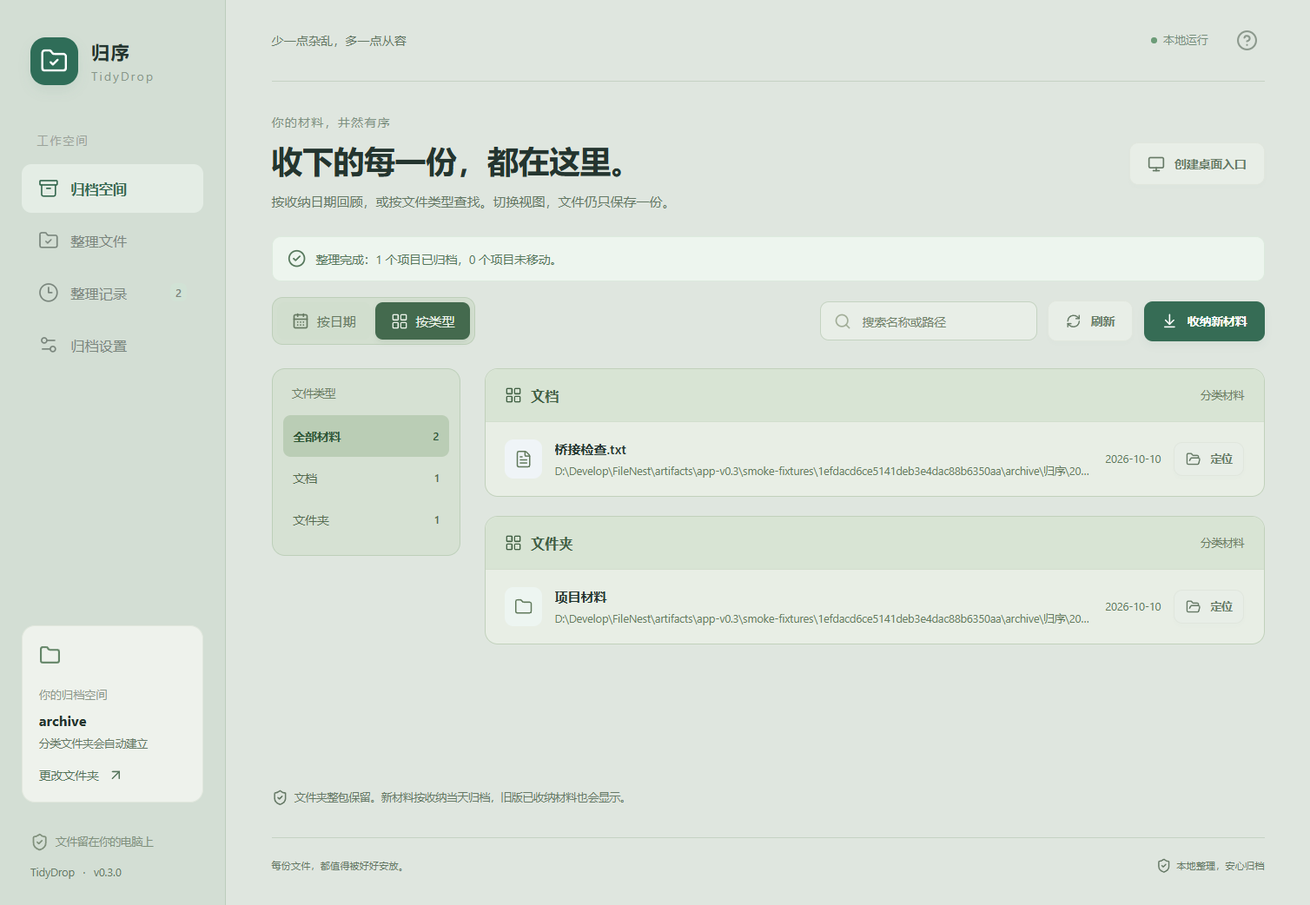
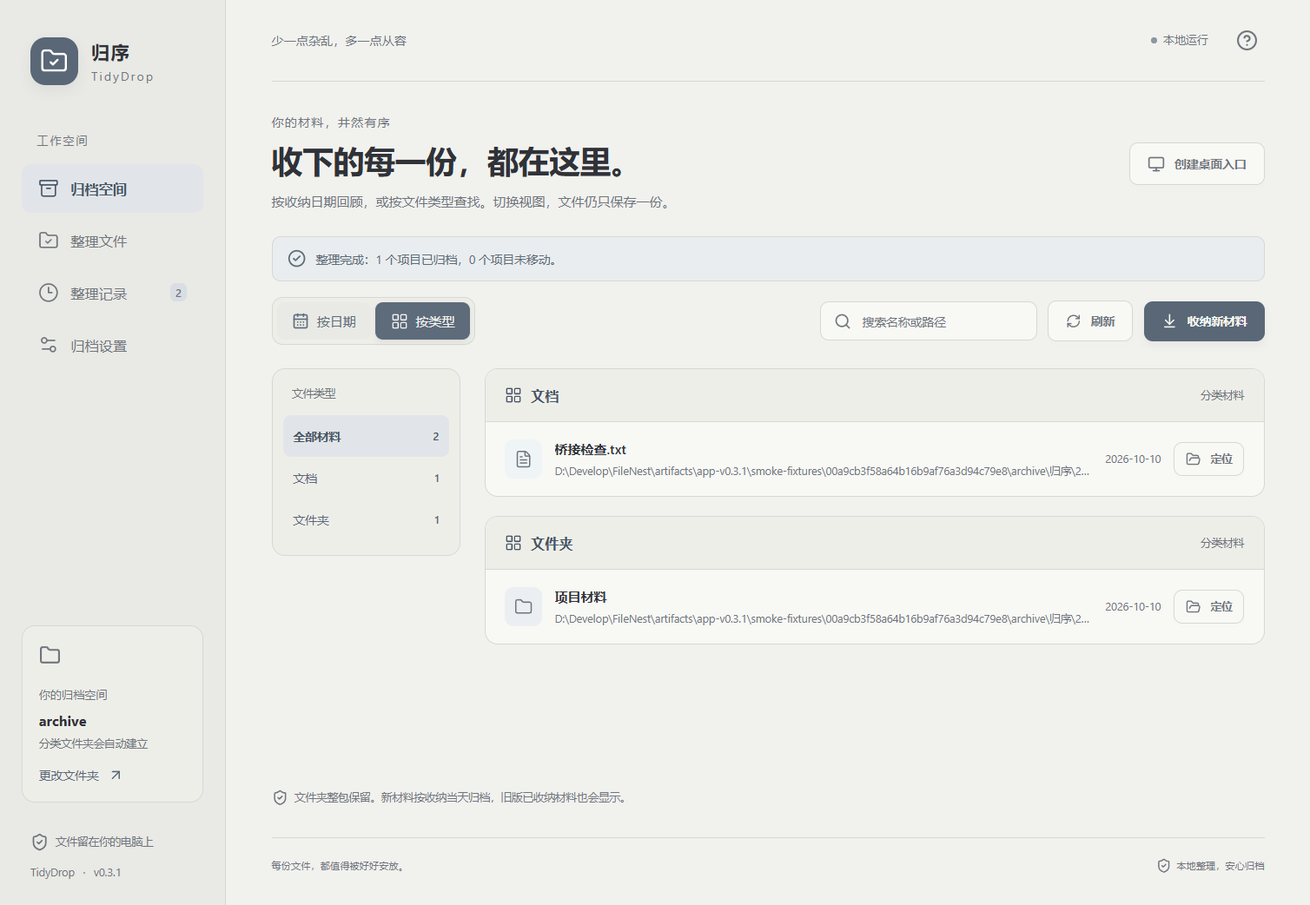
Refresh interface with soft mist-white surfaces

diff --git a/frontend/src/style.css b/frontend/src/style.css
@@ -1,88 +1,88 @@
-:root{font-family:"Segoe UI","Microsoft YaHei UI",sans-serif;color:#24352f;background:#dfe6df;font-synthesis:none;text-rendering:optimizeLegibility;-webkit-font-smoothing:antialiased;font-size:13px}
+:root{--canvas:#f1f1ee;--sidebar:#e9e9e5;--surface:#f8f8f5;--surface-muted:#eeeee9;--selection:#e1e5e9;--line:#d7d8d5;--ink:#303238;--muted:#70757c;--accent:#596777;--accent-hover:#465465;--on-accent:#f8f8f5;font-family:"Segoe UI","Microsoft YaHei UI",sans-serif;color:var(--ink);background:var(--canvas);font-synthesis:none;text-rendering:optimizeLegibility;-webkit-font-smoothing:antialiased;font-size:13px}
 *{box-sizing:border-box}
 body{margin:0}
 button,input{font:inherit}
 button{cursor:pointer;border:0;background:transparent;color:inherit}
 button:disabled{opacity:.45;cursor:default}
-button:focus-visible,input:focus-visible{outline:3px solid #a9d5c5;outline-offset:3px}
+button:focus-visible,input:focus-visible{outline:3px solid #a9b9cb;outline-offset:3px}
 button{transition:background .16s,transform .16s,color .16s}
 button:not(:disabled):active{transform:translateY(1px)}
 .app-shell{display:flex;min-height:100vh}
-.sidebar{width:208px;flex-shrink:0;background:#d3ded4;border-right:1px solid #e6ebe4;padding:34px 20px 24px;display:flex;flex-direction:column;position:fixed;inset:0 auto 0 0}
+.sidebar{width:208px;flex-shrink:0;background:var(--sidebar);border-right:1px solid var(--line);padding:34px 20px 24px;display:flex;flex-direction:column;position:fixed;inset:0 auto 0 0}
 .brand{display:flex;align-items:center;gap:12px;margin:0 8px 45px}
-.brand-mark{display:flex;align-items:center;justify-content:center;width:44px;height:44px;background:#2f6d58;color:white;border-radius:14px;box-shadow:0 5px 12px #2f6d5815;flex-shrink:0}
+.brand-mark{display:flex;align-items:center;justify-content:center;width:44px;height:44px;background:var(--accent);color:white;border-radius:14px;box-shadow:0 5px 12px #30323812;flex-shrink:0}
 .brand strong{font-size:17px;letter-spacing:1px;font-weight:650}
-.brand div>span{display:block;font-size:11px;letter-spacing:1.7px;color:#88978a;margin-top:4px}
-.nav-caption{font-size:10px;letter-spacing:2px;color:#9aa399;margin:0 14px 12px}
-.nav-item{display:flex;align-items:center;width:100%;gap:11px;text-align:left;padding:13px 15px;border-radius:9px;color:#7a867d;margin:3px 0}
-.nav-item:hover{background:#edf1eb}
-.nav-item.active{background:#e4ede5;color:#35684f;font-weight:600}
-.nav-item b{margin-left:auto;font-size:10px;background:#d1e2d5;border-radius:5px;padding:2px 5px;font-weight:600}
-.sidebar-destination{margin-top:auto;margin-bottom:28px;background:#eef2ec;padding:17px 15px;border:1px solid #e1e7dd;border-radius:12px;position:relative}
-.destination-symbol{display:block;color:#638567;margin-bottom:17px}
-.eyebrow{font-size:11px;letter-spacing:1.2px;color:#7d9182}
-.sidebar-destination .eyebrow{font-size:10px;display:block;letter-spacing:.5px;color:#8d988b}
+.brand div>span{display:block;font-size:11px;letter-spacing:1.7px;color:var(--muted);margin-top:4px}
+.nav-caption{font-size:10px;letter-spacing:2px;color:var(--muted);margin:0 14px 12px}
+.nav-item{display:flex;align-items:center;width:100%;gap:11px;text-align:left;padding:13px 15px;border-radius:9px;color:var(--muted);margin:3px 0}
+.nav-item:hover{background:var(--surface-muted)}
+.nav-item.active{background:var(--selection);color:#465465;font-weight:600}
+.nav-item b{margin-left:auto;font-size:10px;background:#d9dee4;border-radius:5px;padding:2px 5px;font-weight:600}
+.sidebar-destination{margin-top:auto;margin-bottom:28px;background:var(--surface-muted);padding:17px 15px;border:1px solid var(--line);border-radius:12px;position:relative}
+.destination-symbol{display:block;color:var(--muted);margin-bottom:17px}
+.eyebrow{font-size:11px;letter-spacing:1.2px;color:var(--muted)}
+.sidebar-destination .eyebrow{font-size:10px;display:block;letter-spacing:.5px;color:var(--muted)}
 .sidebar-destination strong{display:block;margin-top:8px;font-size:13px;overflow:hidden;text-overflow:ellipsis;white-space:nowrap}
-.sidebar-destination p{font-size:10px;color:#909c90;margin:6px 0 15px}
-.sidebar-destination button{display:flex;gap:8px;align-items:center;font-size:11px;color:#54745b;padding:0}
-.sidebar-bottom{padding:0 8px;color:#a0aa9f;font-size:10px}
-.sidebar-bottom div{display:flex;align-items:center;gap:6px;color:#81917d;margin-bottom:13px}
+.sidebar-destination p{font-size:10px;color:var(--muted);margin:6px 0 15px}
+.sidebar-destination button{display:flex;gap:8px;align-items:center;font-size:11px;color:var(--accent);padding:0}
+.sidebar-bottom{padding:0 8px;color:var(--muted);font-size:10px}
+.sidebar-bottom div{display:flex;align-items:center;gap:6px;color:var(--muted);margin-bottom:13px}
 .sidebar-bottom i{font-style:normal;margin:0 5px}
 main{margin-left:208px;flex:1;min-width:0;max-width:1660px;padding:0 42px 22px}
-.topbar{display:flex;align-items:center;justify-content:space-between;height:75px;border-bottom:1px solid #eff1ed;color:#96a094;font-size:11px;letter-spacing:.3px}
+.topbar{display:flex;align-items:center;justify-content:space-between;height:75px;border-bottom:1px solid var(--surface-muted);color:var(--muted);font-size:11px;letter-spacing:.3px}
 .topbar>div{display:flex;align-items:center;gap:20px}
-.local-pill{display:flex;align-items:center;gap:6px;font-size:10px;color:#758e7b}
-.local-pill i,.mode-chip i{width:5px;height:5px;background:#6c9c78;border-radius:50%}
-.icon-button{display:flex;align-items:center;justify-content:center;color:#8c998d;border-radius:7px;padding:6px}
-.icon-button:hover{background:#edf2ed}
+.local-pill{display:flex;align-items:center;gap:6px;font-size:10px;color:var(--muted)}
+.local-pill i,.mode-chip i{width:5px;height:5px;background:#8b97a2;border-radius:50%}
+.icon-button{display:flex;align-items:center;justify-content:center;color:var(--muted);border-radius:7px;padding:6px}
+.icon-button:hover{background:var(--surface-muted)}
 .page-header{display:flex;align-items:center;justify-content:space-between;gap:16px;padding:30px 0 25px}
 .page-header h1{font-size:29px;font-weight:620;letter-spacing:-.6px;margin:9px 0 9px;line-height:1.3}
-.page-header p{font-size:12px;color:#627466;margin:0;line-height:1.8}
+.page-header p{font-size:12px;color:var(--accent);margin:0;line-height:1.8}
 .button{display:inline-flex;align-items:center;justify-content:center;gap:9px;padding:11px 16px;border-radius:8px;white-space:nowrap;font-size:11px;font-weight:550;line-height:1.2}
-.button.subtle{border:1px solid #e0e6dd;background:#e8eee7;color:#667a66;box-shadow:0 2px 3px #23362c03}
-.button.subtle:hover{background:#f5f8f3}
-.button.primary{background:#366c55;color:#fff;box-shadow:0 4px 7px #2a644d0e}
-.button.primary:hover{background:#295a44}
-.drop-zone{min-height:255px;background:linear-gradient(115deg,#d3e0d2 0%,#e0e8dc 70%);border:1px dashed #bccfba;border-radius:15px;position:relative;display:flex;justify-content:space-between;align-items:center;padding:29px 38px;overflow:hidden;transition:background .2s,border-color .2s}
-.drop-zone.dragging{border:2px dashed #48795e;background:#e5f1e2}
+.button.subtle{border:1px solid var(--line);background:var(--surface);color:var(--muted);box-shadow:0 2px 3px #30323803}
+.button.subtle:hover{background:var(--surface-muted)}
+.button.primary{background:var(--accent);color:var(--on-accent);box-shadow:0 4px 7px #3032380e}
+.button.primary:hover{background:var(--accent-hover)}
+.drop-zone{min-height:255px;background:linear-gradient(115deg,#eaeae6 0%,#f4f4f0 70%);border:1px dashed #b6bcc2;border-radius:15px;position:relative;display:flex;justify-content:space-between;align-items:center;padding:29px 38px;overflow:hidden;transition:background .2s,border-color .2s}
+.drop-zone.dragging{border:2px dashed var(--accent);background:#e5e9ed}
 .drop-copy{position:relative;z-index:2}
-.drop-tag{display:inline-flex;align-items:center;gap:6px;border:1px solid #dce7d8;background:#ffffff6b;color:#6d8b6d;font-size:10px;letter-spacing:1px;padding:5px 8px;border-radius:5px}
+.drop-tag{display:inline-flex;align-items:center;gap:6px;border:1px solid var(--line);background:#ffffff6b;color:var(--muted);font-size:10px;letter-spacing:1px;padding:5px 8px;border-radius:5px}
 .drop-zone h2{font-size:25px;font-weight:610;margin:16px 0 10px;letter-spacing:-.3px}
-.drop-zone p{color:#61765b;font-size:11px;line-height:1.95;margin:0 0 20px}
+.drop-zone p{color:var(--accent);font-size:11px;line-height:1.95;margin:0 0 20px}
 .drop-zone .button{padding:11px 16px}
 .plus{font-size:18px;font-weight:400;line-height:12px}
 .folder-illustration{width:245px;height:195px;position:relative;flex-shrink:0;margin-right:10px}
-.orbit{position:absolute;border:1px solid #dce7d6;border-radius:50%;transform:rotate(-25deg);left:3px;top:6px;width:229px;height:179px}
-.orbit-two{width:183px;height:183px;left:31px;top:3px;border-color:#e4ecdf;transform:none}
-.paper{position:absolute;width:72px;height:99px;background:#e8eee7;border-radius:8px;box-shadow:0 4px 10px #475e3810;padding:14px 13px}
+.orbit{position:absolute;border:1px solid var(--line);border-radius:50%;transform:rotate(-25deg);left:3px;top:6px;width:229px;height:179px}
+.orbit-two{width:183px;height:183px;left:31px;top:3px;border-color:var(--surface-muted);transform:none}
+.paper{position:absolute;width:72px;height:99px;background:var(--surface);border-radius:8px;box-shadow:0 4px 10px #3032380b;padding:14px 13px}
 .paper-back{transform:rotate(13deg);top:28px;left:132px;color:#c9ad65;border:1px solid #eee8d6}
-.paper-front{transform:rotate(-10deg);top:13px;left:67px;color:#91a89e;border:1px solid #d9e4d9}
-.paper-front i{display:block;height:3px;background:#e8ece6;width:36px;border-radius:2px;margin-top:9px}
+.paper-front{transform:rotate(-10deg);top:13px;left:67px;color:#8895a3;border:1px solid var(--line)}
+.paper-front i{display:block;height:3px;background:var(--surface-muted);width:36px;border-radius:2px;margin-top:9px}
 .paper-front i:last-child{width:25px;margin-top:6px}
-.illustration-folder{position:absolute;width:141px;height:88px;left:52px;top:93px;border-radius:8px 12px 13px 13px;background:linear-gradient(145deg,#669074,#49795f);box-shadow:0 13px 20px #405e421c;transform:rotate(-5deg);z-index:2}
-.illustration-folder:before{content:"";position:absolute;top:-12px;left:0;width:63px;height:21px;background:#729980;border-radius:8px 9px 0 0}
+.illustration-folder{position:absolute;width:141px;height:88px;left:52px;top:93px;border-radius:8px 12px 13px 13px;background:linear-gradient(145deg,#8996a5,#67778a);box-shadow:0 13px 20px #3032381a;transform:rotate(-5deg);z-index:2}
+.illustration-folder:before{content:"";position:absolute;top:-12px;left:0;width:63px;height:21px;background:#9aa6b3;border-radius:8px 9px 0 0}
 .illustration-folder:after{content:"";position:absolute;top:5px;left:0;right:0;height:2px;background:#ffffff0a}
-.illustration-folder span{display:flex;align-items:center;justify-content:center;width:42px;height:42px;background:#ffffff12;color:#e4f0e5;border:1px solid #ffffff15;border-radius:50%;position:absolute;left:49px;top:23px}
-.floating-arrow{width:35px;height:35px;display:flex;align-items:center;justify-content:center;position:absolute;right:24px;top:53px;background:#e8eee7;border:1px solid #e3eadd;border-radius:11px;color:#78977b;z-index:3;box-shadow:0 3px 8px #1e463708;transform:rotate(8deg)}
-.tiny-spark{position:absolute;color:#c4d3b9;font-size:15px}
+.illustration-folder span{display:flex;align-items:center;justify-content:center;width:42px;height:42px;background:#ffffff12;color:var(--on-accent);border:1px solid #ffffff15;border-radius:50%;position:absolute;left:49px;top:23px}
+.floating-arrow{width:35px;height:35px;display:flex;align-items:center;justify-content:center;position:absolute;right:24px;top:53px;background:var(--surface);border:1px solid var(--line);border-radius:11px;color:var(--muted);z-index:3;box-shadow:0 3px 8px #30323808;transform:rotate(8deg)}
+.tiny-spark{position:absolute;color:#858a91;font-size:15px}
 .spark-one{top:34px;left:22px}
 .spark-two{right:4px;bottom:29px;font-size:12px}
-.destination-bar{display:flex;align-items:center;gap:13px;border:1px solid #e8ece5;border-radius:11px;background:#e8eee7;padding:15px 18px;margin-top:14px}
-.destination-icon{display:flex;align-items:center;justify-content:center;width:35px;height:35px;background:#f0f4ec;border-radius:9px;color:#86a079;flex-shrink:0}
+.destination-bar{display:flex;align-items:center;gap:13px;border:1px solid var(--surface-muted);border-radius:11px;background:var(--surface);padding:15px 18px;margin-top:14px}
+.destination-icon{display:flex;align-items:center;justify-content:center;width:35px;height:35px;background:var(--surface-muted);border-radius:9px;color:var(--muted);flex-shrink:0}
 .destination-bar>div{flex:1;min-width:0}
-.destination-bar>div>span{display:block;font-size:9px;color:#6b7e64;letter-spacing:.5px;margin-bottom:4px}
+.destination-bar>div>span{display:block;font-size:9px;color:var(--muted);letter-spacing:.5px;margin-bottom:4px}
 .destination-bar strong{display:block;font-size:11px;font-weight:500;white-space:nowrap;overflow:hidden;text-overflow:ellipsis}
-.destination-bar>button{display:flex;align-items:center;gap:6px;font-size:10px;color:#7f917b;flex-shrink:0}
-.bar-divider{height:24px;border-left:1px solid #e9ede5;margin:0 2px 0 8px}
-.mode-chip{font-size:10px!important;color:#72876e!important}
+.destination-bar>button{display:flex;align-items:center;gap:6px;font-size:10px;color:var(--muted);flex-shrink:0}
+.bar-divider{height:24px;border-left:1px solid var(--surface-muted);margin:0 2px 0 8px}
+.mode-chip{font-size:10px!important;color:var(--muted)!important}
 .section-heading{display:flex;align-items:center;justify-content:space-between;gap:16px;margin-bottom:16px}
 .section-heading h3{font-size:13px;font-weight:600;margin:0;letter-spacing:.3px}
 .section-heading>div:first-child{display:flex;align-items:center;gap:13px}
-.section-heading span{font-size:10px;color:#718172}
-.section-heading>button:not(.button){display:flex;align-items:center;gap:6px;font-size:10px;color:#8d9a87}
+.section-heading span{font-size:10px;color:var(--muted)}
+.section-heading>button:not(.button){display:flex;align-items:center;gap:6px;font-size:10px;color:var(--muted)}
 .categories-section,.results-section{margin-top:28px}
 .category-grid{display:grid;grid-template-columns:repeat(6,minmax(0,1fr));gap:10px}
-.category-card{border:1px solid #e9ece6;border-radius:11px;background:#e8eee7;padding:16px 12px}
+.category-card{border:1px solid var(--surface-muted);border-radius:11px;background:var(--surface);padding:16px 12px}
 .file-glyph{height:39px;width:39px;display:flex;align-items:center;justify-content:center;border-radius:10px}
 .file-glyph.small{width:34px;height:36px;border-radius:8px;flex-shrink:0}
 .blue{color:#829cae;background:#eff4f7}
@@ -90,77 +90,77 @@ main{margin-left:208px;flex:1;min-width:0;max-width:1660px;padding:0 42px 22px}
 .purple{color:#a191b3;background:#f3f0f7}
 .pink{color:#b28a9c;background:#f8f0f3}
 .orange{color:#b7a089;background:#f8f3ec}
-.teal{color:#80a596;background:#edf5f1}
-.gray{color:#9ba393;background:#f2f4ef}
+.teal{color:#8393a2;background:#eceff2}
+.gray{color:var(--muted);background:var(--surface-muted)}
 .category-card strong{font-size:11px;display:block;margin-top:13px;font-weight:550}
-.category-card>span:last-child{display:block;font-size:8px;color:#758773;margin-top:7px;white-space:nowrap}
-.gentle-tip{display:flex;align-items:center;gap:6px;color:#718471;font-size:10px;margin-top:17px;line-height:1.7}
-.main-footer{display:flex;align-items:center;justify-content:space-between;font-size:9px;color:#b0b8ab;border-top:1px solid #edf0e9;margin-top:28px;padding-top:18px}
+.category-card>span:last-child{display:block;font-size:8px;color:var(--muted);margin-top:7px;white-space:nowrap}
+.gentle-tip{display:flex;align-items:center;gap:6px;color:var(--muted);font-size:10px;margin-top:17px;line-height:1.7}
+.main-footer{display:flex;align-items:center;justify-content:space-between;font-size:9px;color:#858a91;border-top:1px solid var(--surface-muted);margin-top:28px;padding-top:18px}
 .main-footer>span:last-child{display:flex;align-items:center;gap:5px}
-.notice{display:flex;align-items:center;gap:9px;padding:11px 14px;background:#edf5ee;border:1px solid #dceadd;border-radius:8px;margin:-4px 0 15px;font-size:11px;color:#56785c;line-height:1.6}
+.notice{display:flex;align-items:center;gap:9px;padding:11px 14px;background:#e9edef;border:1px solid var(--line);border-radius:8px;margin:-4px 0 15px;font-size:11px;color:#5c6c78;line-height:1.6}
 .notice.error{color:#a27157;background:#faf2e9;border-color:#eeddcc}
 .notice span{min-width:0;overflow-wrap:anywhere}
-.preview-note{font-size:10px;color:#91a18c;padding-bottom:12px}
-.table-wrap{background:#e8eee7;border:1px solid #e6ebe3;border-radius:11px;overflow:auto}
+.preview-note{font-size:10px;color:var(--muted);padding-bottom:12px}
+.table-wrap{background:var(--surface);border:1px solid var(--line);border-radius:11px;overflow:auto}
 table{width:100%;border-collapse:collapse;table-layout:fixed}
-th{text-align:left;background:#dbe5da;padding:12px 17px;color:#637b62;font-size:10px;font-weight:500}
-td{padding:13px 17px;border-top:1px solid #eef1ea;font-size:11px}
+th{text-align:left;background:var(--surface-muted);padding:12px 17px;color:var(--muted);font-size:10px;font-weight:500}
+td{padding:13px 17px;border-top:1px solid var(--surface-muted);font-size:11px}
 th:first-child{width:30%}
 th:nth-child(2){width:43%}
 th:last-child{width:27%}
 .file-name{display:flex;align-items:center;gap:11px}
 .file-name>span{overflow:hidden;text-overflow:ellipsis;white-space:nowrap;font-weight:500}
-.file-name small{display:block;font-size:9px;color:#718471;margin-top:5px;font-weight:400}
-.path-cell{color:#6a7f67;font-size:10px;overflow:hidden;text-overflow:ellipsis;white-space:nowrap}
+.file-name small{display:block;font-size:9px;color:var(--muted);margin-top:5px;font-weight:400}
+.path-cell{color:var(--muted);font-size:10px;overflow:hidden;text-overflow:ellipsis;white-space:nowrap}
 .status-badge{display:inline-flex;align-items:center;gap:4px;font-size:9px;border-radius:5px;padding:4px 7px;max-width:100%;overflow:hidden;text-overflow:ellipsis;white-space:nowrap}
-.status-badge.success{background:#eaf4eb;color:#6d9b75}
+.status-badge.success{background:#e8edf0;color:#5e7483}
 .status-badge.waiting{background:#faf3e5;color:#ad9567}
-.status-badge.neutral{background:#f3f4f0;color:#929e87}
+.status-badge.neutral{background:var(--surface-muted);color:var(--muted)}
 .history-table th:first-child{width:29%}
 .history-table th:nth-child(2){width:40%}
 .history-table th:nth-child(3){width:15%}
 .history-table th:last-child{width:16%}
-.search-box{display:flex;align-items:center;gap:8px;background:#e8eee7;border:1px solid #e5eae1;padding:9px 12px;border-radius:8px;color:#a1ad97}
-.search-box input{border:0;outline:0;background:transparent;width:150px;font-size:11px;color:#70816b}
-.search-box input::placeholder{color:#b0baaa}
-.undo-button{display:flex;align-items:center;gap:5px;color:#7d9975;font-size:10px}
-.undo-button:hover{color:#3c714c}
-.empty-state{text-align:center;padding:74px 20px;background:#e8eee7;border:1px dashed #dde7d8;border-radius:12px;color:#a8b99e}
-.empty-state h3{font-size:15px;color:#778e6e;font-weight:500;margin:20px 0 10px}
-.empty-state p{font-size:11px;color:#a1ad97}
-.settings-card{background:#e8eee7;border:1px solid #e7ece2;border-radius:12px;margin-bottom:17px;padding:23px}
+.search-box{display:flex;align-items:center;gap:8px;background:var(--surface);border:1px solid var(--line);padding:9px 12px;border-radius:8px;color:var(--muted)}
+.search-box input{border:0;outline:0;background:transparent;width:150px;font-size:11px;color:var(--muted)}
+.search-box input::placeholder{color:#858a91}
+.undo-button{display:flex;align-items:center;gap:5px;color:var(--muted);font-size:10px}
+.undo-button:hover{color:var(--accent)}
+.empty-state{text-align:center;padding:74px 20px;background:var(--surface);border:1px dashed var(--line);border-radius:12px;color:#858a91}
+.empty-state h3{font-size:15px;color:var(--muted);font-weight:500;margin:20px 0 10px}
+.empty-state p{font-size:11px;color:var(--muted)}
+.settings-card{background:var(--surface);border:1px solid var(--line);border-radius:12px;margin-bottom:17px;padding:23px}
 .settings-card>.section-heading{margin-bottom:8px}
-.setting-row{display:flex;align-items:center;gap:15px;padding:22px 0;border-top:1px solid #edf0e8}
+.setting-row{display:flex;align-items:center;gap:15px;padding:22px 0;border-top:1px solid var(--surface-muted)}
 .setting-row:nth-child(2){border-top:0}
 .setting-row:last-child{padding-bottom:3px}
-.setting-icon{display:flex;align-items:center;justify-content:center;width:38px;height:38px;background:#f4f7ef;border-radius:9px;color:#8b9f80;flex-shrink:0}
+.setting-icon{display:flex;align-items:center;justify-content:center;width:38px;height:38px;background:var(--surface-muted);border-radius:9px;color:var(--muted);flex-shrink:0}
 .setting-row>div{flex:1;min-width:0}
 .setting-row strong{font-size:12px;font-weight:550}
-.setting-row p{font-size:10px;color:#6c7e64;margin:7px 0 0;line-height:1.6;overflow:hidden;white-space:nowrap;text-overflow:ellipsis}
-.toggle{width:35px;height:20px;flex-shrink:0;padding:3px;border-radius:12px;background:#e0e7dc;transition:background .18s}
-.toggle span{display:block;height:14px;width:14px;background:#e8eee7;border-radius:50%;box-shadow:0 1px 4px #0001;transition:transform .18s}
-.toggle.on{background:#68957a}
+.setting-row p{font-size:10px;color:var(--muted);margin:7px 0 0;line-height:1.6;overflow:hidden;white-space:nowrap;text-overflow:ellipsis}
+.toggle{width:35px;height:20px;flex-shrink:0;padding:3px;border-radius:12px;background:#d7d9d9;transition:background .18s}
+.toggle span{display:block;height:14px;width:14px;background:var(--surface);border-radius:50%;box-shadow:0 1px 4px #0001;transition:transform .18s}
+.toggle.on{background:var(--accent)}
 .toggle.on span{transform:translateX(15px)}
 .all-categories{display:grid;grid-template-columns:repeat(5,minmax(0,1fr));row-gap:22px;column-gap:15px;margin:25px 0}
 .all-categories>div{display:flex;align-items:center;gap:9px}
 .all-categories strong{display:block;font-size:10px;font-weight:500}
-.all-categories small{display:block;color:#74856c;font-size:8px;margin-top:5px}
-.folder-example{display:flex;align-items:center;flex-wrap:wrap;gap:8px;padding:13px 15px;background:#f5f8f1;border-radius:7px;color:#8b9d7e;font-size:10px}
+.all-categories small{display:block;color:var(--muted);font-size:8px;margin-top:5px}
+.folder-example{display:flex;align-items:center;flex-wrap:wrap;gap:8px;padding:13px 15px;background:var(--surface-muted);border-radius:7px;color:var(--muted);font-size:10px}
 .folder-example span{overflow-wrap:anywhere}
 .spin{animation:spin 1s linear infinite}
 @keyframes spin{to{transform:rotate(360deg)}
 }
-.modal-backdrop{position:fixed;inset:0;background:#1e362744;backdrop-filter:blur(4px);z-index:100;display:flex;align-items:center;justify-content:center;padding:20px}
-.help-modal{width:420px;max-width:100%;padding:32px;background:#e3ebe0;border:1px solid #e3eadd;border-radius:18px;box-shadow:0 20px 80px #193a3520;position:relative}
+.modal-backdrop{position:fixed;inset:0;background:#30323844;backdrop-filter:blur(4px);z-index:100;display:flex;align-items:center;justify-content:center;padding:20px}
+.help-modal{width:420px;max-width:100%;padding:32px;background:var(--surface);border:1px solid var(--line);border-radius:18px;box-shadow:0 20px 80px #30323820;position:relative}
 .modal-close{position:absolute;top:15px;right:15px}
 .help-modal h2{font-size:23px;margin:22px 0 8px}
-.help-modal>p{font-size:12px;color:#8d9d81}
+.help-modal>p{font-size:12px;color:var(--muted)}
 .help-modal ol{list-style:none;padding:0;margin:26px 0}
 .help-modal li{display:flex;gap:13px;margin:21px 0}
-.help-modal li b{width:24px;height:24px;border-radius:8px;background:#edf2e7;color:#87a076;font-size:10px;display:flex;align-items:center;justify-content:center;flex-shrink:0}
+.help-modal li b{width:24px;height:24px;border-radius:8px;background:var(--surface-muted);color:var(--muted);font-size:10px;display:flex;align-items:center;justify-content:center;flex-shrink:0}
 .help-modal li strong{font-size:12px;font-weight:550}
-.help-modal li p{font-size:10px;color:#99a68e;margin:6px 0 0;line-height:1.7}
-.help-note{font-size:10px;color:#9aa98d;line-height:1.8;padding:13px 14px;background:#f0f5e9;border-radius:8px;margin-bottom:20px}
+.help-modal li p{font-size:10px;color:var(--muted);margin:6px 0 0;line-height:1.7}
+.help-note{font-size:10px;color:var(--muted);line-height:1.8;padding:13px 14px;background:var(--surface-muted);border-radius:8px;margin-bottom:20px}
 .help-modal>.button{width:100%}
 @media(min-width:1400px){main{padding-left:64px;padding-right:64px}
 .drop-zone{min-height:280px}
@@ -214,41 +214,41 @@ th,td{padding-left:10px;padding-right:10px}
 }
 
 
-/* Soft sage surfaces with readable secondary text. */
-.page-header p,.sidebar-destination p,.gentle-tip,.main-footer,.sidebar-bottom,.topbar,.setting-row p,.all-categories small{color:#657865}
+/* Mist-white surfaces; dark text and muted slate accents. */
+.page-header p,.sidebar-destination p,.gentle-tip,.main-footer,.sidebar-bottom,.topbar,.setting-row p,.all-categories small{color:var(--muted)}
 
-.sidebar{border-color:#bccdbc}
-.topbar,.main-footer{border-color:#c5d2c4}
-.drop-zone{border-color:#a5bca1}
-.destination-bar,.settings-card,.category-card,.table-wrap,.search-box{border-color:#c4d3c1}
+.sidebar{border-color:var(--line)}
+.topbar,.main-footer{border-color:var(--line)}
+.drop-zone{border-color:#b6bcc2}
+.destination-bar,.settings-card,.category-card,.table-wrap,.search-box{border-color:var(--line)}
 
-.folder-pick{margin-left:8px;color:#496848;border:1px solid #b0c3a8;background:#e3ebde}
+.folder-pick{margin-left:8px;color:var(--accent);border:1px solid var(--line);background:var(--line)}
 .library-toolbar{display:flex;align-items:center;gap:10px;margin-bottom:22px;flex-wrap:wrap}
 .library-toolbar .search-box{margin-left:auto}
-.view-switch{display:flex;gap:4px;padding:4px;border:1px solid #becfba;border-radius:10px;background:#d3dfd0}
-.view-switch button{display:flex;align-items:center;gap:7px;padding:9px 14px;font-size:12px;border-radius:7px;color:#63765f}
-.view-switch button.selected{background:#42694c;color:#eef5ec;box-shadow:0 2px 5px #23452a17}
+.view-switch{display:flex;gap:4px;padding:4px;border:1px solid var(--line);border-radius:10px;background:var(--surface-muted)}
+.view-switch button{display:flex;align-items:center;gap:7px;padding:9px 14px;font-size:12px;border-radius:7px;color:var(--accent)}
+.view-switch button.selected{background:var(--accent);color:var(--on-accent);box-shadow:0 2px 5px #30323817}
 .library-layout{display:grid;grid-template-columns:174px minmax(0,1fr);gap:22px;min-height:370px}
-.library-groups{background:#d6e1d3;border:1px solid #bdcfb9;border-radius:12px;padding:14px 10px;align-self:start;max-height:520px;overflow:auto}
-.group-caption{font-size:10px;color:#6c8065;margin:2px 8px 13px}
-.library-groups button{display:flex;align-items:center;justify-content:space-between;width:100%;gap:5px;padding:12px 9px;border-radius:7px;font-size:11px;color:#536b4f;text-align:left}
-.library-groups button.selected{background:#bacdb5;color:#2d5636;font-weight:600}
-.library-groups button:hover{background:#c7d6c2}
+.library-groups{background:var(--surface-muted);border:1px solid var(--line);border-radius:12px;padding:14px 10px;align-self:start;max-height:520px;overflow:auto}
+.group-caption{font-size:10px;color:var(--muted);margin:2px 8px 13px}
+.library-groups button{display:flex;align-items:center;justify-content:space-between;width:100%;gap:5px;padding:12px 9px;border-radius:7px;font-size:11px;color:var(--accent);text-align:left}
+.library-groups button.selected{background:var(--selection);color:#465465;font-weight:600}
+.library-groups button:hover{background:#e5e7e8}
 .library-groups b{font-size:10px;font-weight:500}
-.library-group{background:#e8eee5;border:1px solid #c1d1bb;border-radius:12px;margin-bottom:18px;overflow:hidden}
-.library-group h3{display:flex;align-items:center;gap:8px;background:#d8e4d4;font-size:13px;color:#416044;padding:15px 18px;margin:0}
-.library-group h3 span{margin-left:auto;font-size:10px;font-weight:400;color:#6c8064}
-.archive-row{display:flex;align-items:center;gap:12px;padding:16px 18px;border-top:1px solid #d2decd}
+.library-group{background:var(--surface);border:1px solid var(--line);border-radius:12px;margin-bottom:18px;overflow:hidden}
+.library-group h3{display:flex;align-items:center;gap:8px;background:var(--surface-muted);font-size:13px;color:#465465;padding:15px 18px;margin:0}
+.library-group h3 span{margin-left:auto;font-size:10px;font-weight:400;color:var(--muted)}
+.archive-row{display:flex;align-items:center;gap:12px;padding:16px 18px;border-top:1px solid var(--line)}
 .archive-row>div{flex:1;min-width:0}
 .archive-row strong{font-size:12px;font-weight:550;display:block;overflow:hidden;text-overflow:ellipsis;white-space:nowrap}
-.archive-row small{display:block;margin-top:6px;font-size:10px;color:#657b60;overflow:hidden;text-overflow:ellipsis;white-space:nowrap}
-.archive-row>span{font-size:10px;color:#60795b}
+.archive-row small{display:block;margin-top:6px;font-size:10px;color:var(--muted);overflow:hidden;text-overflow:ellipsis;white-space:nowrap}
+.archive-row>span{font-size:10px;color:var(--muted)}
 .archive-row .button{padding:8px 10px;font-size:10px}
-.library-files .empty-state{background:#e4ecdf;border-color:#bccfb5;min-height:370px}
+.library-files .empty-state{background:var(--surface-muted);border-color:var(--line);min-height:370px}
 .empty-state .button{margin-top:15px}
-.empty-state p{line-height:1.8;color:#63765c}
-.search-box input{color:#4b6549}
-.search-box input::placeholder{color:#72846b}
+.empty-state p{line-height:1.8;color:var(--accent)}
+.search-box input{color:var(--accent)}
+.search-box input::placeholder{color:var(--muted)}
 
 @media(max-width:1050px){.library-layout{grid-template-columns:155px minmax(0,1fr);gap:14px}
 .library-toolbar .search-box{margin-left:0}

diff --git a/frontend/src/main.tsx b/frontend/src/main.tsx
@@ -96,7 +96,7 @@ function App() {
       <div className="nav-caption">工作空间</div>
       <nav aria-label="主导航">{nav.map(({ key, icon: Icon, label }) => <button className={`nav-item ${page === key ? 'active' : ''}`} key={key} onClick={() => setPage(key)}><Icon size={19} strokeWidth={1.7} /><span>{label}</span>{key === 'history' && completed > 0 && <b>{completed}</b>}</button>)}</nav>
       <div className="sidebar-destination"><span className="destination-symbol"><Folder size={20} /></span><span className="eyebrow">你的归档空间</span><strong title={settings.rootFolder}>{settings.rootFolder ? settings.rootFolder.split(/[/\\]/).filter(Boolean).at(-1) || settings.rootFolder : '选择一个归处'}</strong><p>{settings.rootFolder ? '分类文件夹会自动建立' : '设置一次，之后拖入就好'}</p><button disabled={busy} onClick={() => send({ command: 'pickRoot' })}>{settings.rootFolder ? '更改文件夹' : '选择文件夹'}<ArrowUpRight size={15} /></button></div>
-      <div className="sidebar-bottom"><div><ShieldCheck size={17} /><span>文件留在你的电脑上</span></div><span>TidyDrop <i>·</i> v0.3.0</span></div>
+      <div className="sidebar-bottom"><div><ShieldCheck size={17} /><span>文件留在你的电脑上</span></div><span>TidyDrop <i>·</i> v0.3.1</span></div>
     </aside>
     <main>
       <div className="topbar"><span>少一点杂乱，多一点从容</span><div><span className="local-pill"><i />本地运行</span><button className="icon-button" aria-label="使用帮助" title="使用帮助" onClick={() => setHelp(true)}><CircleHelp size={20} /></button></div></div>

diff --git a/src/TidyDrop.App/MainWindow.xaml b/src/TidyDrop.App/MainWindow.xaml
@@ -1,7 +1,7 @@
 <Window x:Class="TidyDrop.App.MainWindow" xmlns="http://schemas.microsoft.com/winfx/2006/xaml/presentation" xmlns:x="http://schemas.microsoft.com/winfx/2006/xaml" xmlns:wv="clr-namespace:Microsoft.Web.WebView2.Wpf;assembly=Microsoft.Web.WebView2.Wpf"
-  Title="归序 · TidyDrop" Width="1220" Height="870" MinWidth="870" MinHeight="640" Background="#DFE6DF" WindowStartupLocation="CenterScreen" Loaded="OnLoaded" Closing="OnClosing">
+  Title="归序 · TidyDrop" Width="1220" Height="870" MinWidth="870" MinHeight="640" Background="#F1F1EE" WindowStartupLocation="CenterScreen" Loaded="OnLoaded" Closing="OnClosing">
   <Grid>
-    <wv:WebView2 x:Name="Browser" DefaultBackgroundColor="#DFE6DF" />
-    <TextBlock x:Name="LoadingText" Text="正在准备你的归档空间…" FontFamily="Microsoft YaHei UI" FontSize="14" Foreground="#7D9182" HorizontalAlignment="Center" VerticalAlignment="Center" IsHitTestVisible="False" />
+    <wv:WebView2 x:Name="Browser" DefaultBackgroundColor="#F1F1EE" />
+    <TextBlock x:Name="LoadingText" Text="正在准备你的归档空间…" FontFamily="Microsoft YaHei UI" FontSize="14" Foreground="#70757C" HorizontalAlignment="Center" VerticalAlignment="Center" IsHitTestVisible="False" />
   </Grid>
 </Window>

diff --git a/README.md b/README.md
@@ -13,7 +13,7 @@
 - **文件夹整包收纳**：保留子目录、文件和空文件夹，归入「文件夹」分类，不拆散项目结构。
 - **一份材料，一份存储**：日期与类型是查看同一批材料的两种方式，不会为两个视图重复复制文件。
 - **可预览、可撤销**：关闭自动整理后先预览去向；整理记录保存原位置和目标位置，可以恢复到原处。
-- **柔和灰绿界面**：TypeScript + React 界面，搭配 C# 文件处理核心，页面与图标全部随程序打包。
+- **柔和雾白界面**：TypeScript + React 界面，搭配 C# 文件处理核心，页面与图标全部随程序打包。
 
 ## 开始使用
 
